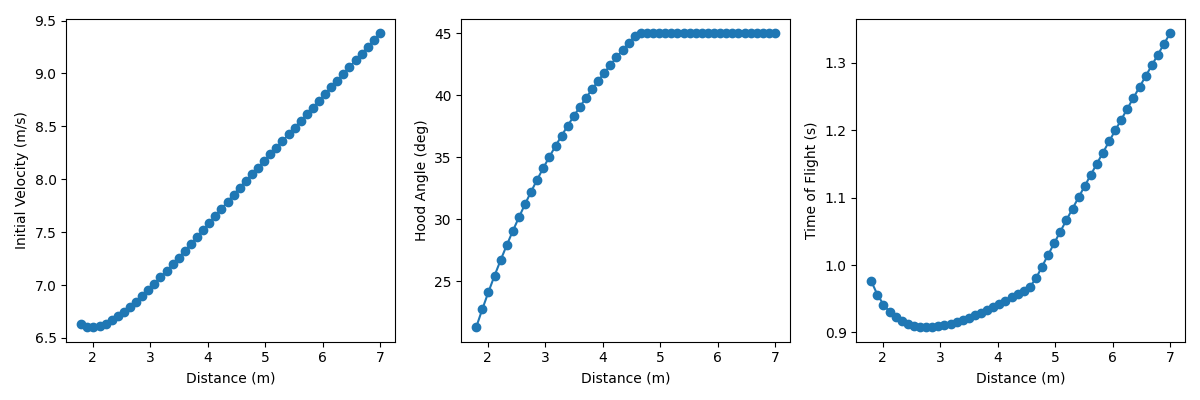
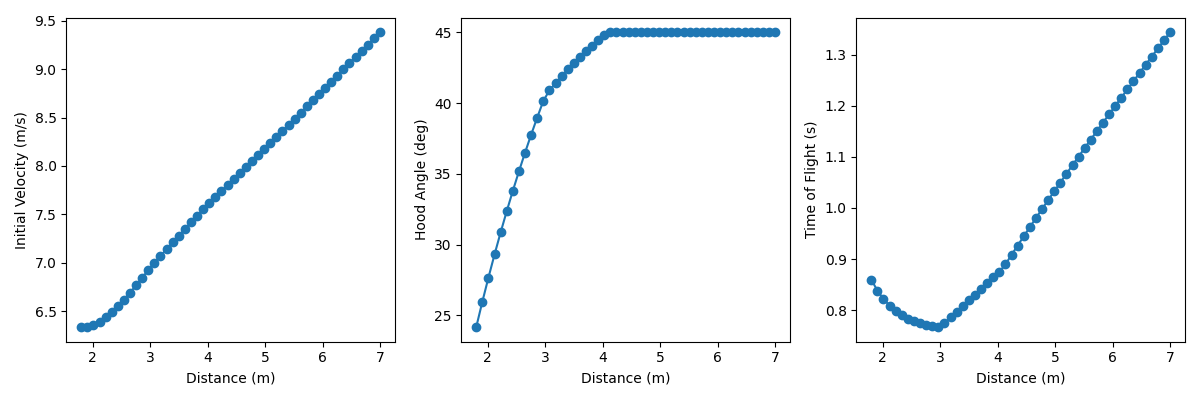
Update shot characteristics a bit

diff --git a/misc/shotSim/shotSimulator.py b/misc/shotSim/shotSimulator.py
@@ -142,7 +142,7 @@ def cost_function(params, target_distance):
         # Buncha random constants yay
         entrance_x = target_distance - hub_target_offset - hub_entrance_width_m/2 - inches_to_meters(2)
         y_at_entrance = np.interp(entrance_x, xs, ys) if xs[0] <= entrance_x <= xs[-1] else float('nan')
-        entrance_height_err = max(0.0, hub_entrance_height_m + inches_to_meters(15) - y_at_entrance)
+        entrance_height_err = max(0.0, hub_entrance_height_m + inches_to_meters(5) - y_at_entrance)
 
         return (
             v0
@@ -259,4 +259,4 @@ with open('shot_parameters.csv', 'w', newline='') as csvfile:
 
 # copy shot_parameters.csv to ../../src/main/deploy
 import shutil
-shutil.copy('shot_parameters.csv', '../../src/main/deploy/shot_parameters.csv')
+shutil.copy('shot_parameters.csv', '../../src/main/deploy/hub_shots.csv')

diff --git a/src/main/java/frc/robot/subsystems/turret/ShotCalculator.java b/src/main/java/frc/robot/subsystems/turret/ShotCalculator.java
@@ -76,7 +76,7 @@ public class ShotCalculator {
         }
 
         private double getFlywheelVelocityRPM(double linearSpeedMPS) {
-            return 5700 + -1380*linearSpeedMPS + 120*linearSpeedMPS*linearSpeedMPS;
+            return 4490 + -853*linearSpeedMPS + 97.3*linearSpeedMPS*linearSpeedMPS;
         }
 
         public void loadFromCsv(String csvPath) {
@@ -126,7 +126,7 @@ public class ShotCalculator {
         // 4.33m:  2924.0 rpm / 41.9 deg / 1.39s
         // 5.35m:  3476.5 rpm / 41.9 deg / 1.45s
 
-        hubShots.loadFromCsv("shot_parameters.csv");
+        hubShots.loadFromCsv("hub_shots.csv");
 
         // Passing shots
         passShots.hoodAngleMap.put(5.46,  40.0);
